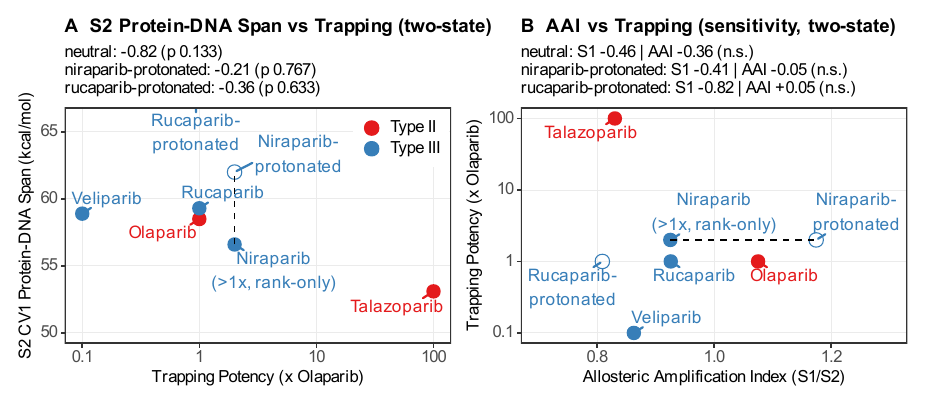
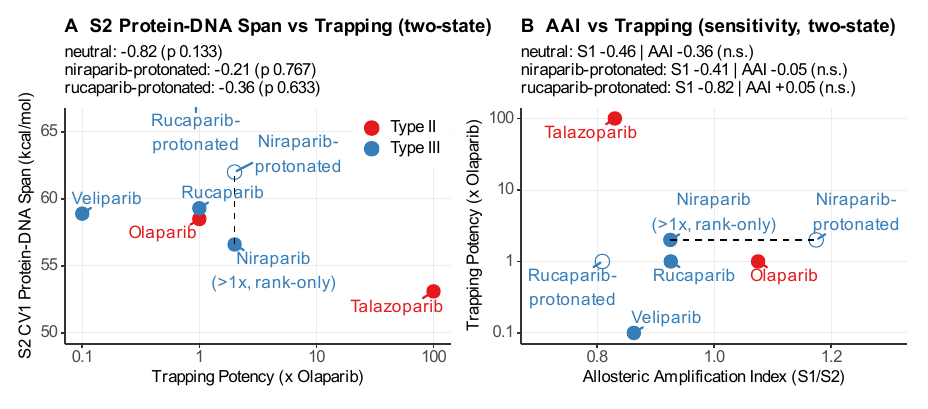
Figure style: open-frame panels for main-manuscript Figures 3-4
- code/21 (Fig_Trapping_vs_Allostery): both panels -> theme_open
- code/13 (Fig_2D_Mechanism_Map): -> theme_open
- D4 diagnostics already classic/minimal; grid/composite figures unchanged
- Main manuscript recompiled (57 pages); submission package synced

Changed region(s): [[0.0625, 0.8215, 0.5, 0.8509], [0.5625, 0.8215, 0.9688, 0.8509], [0.4688, 0.2641, 0.5, 0.2934]]

diff --git a/docs/standardisation_report.md b/docs/standardisation_report.md
@@ -109,6 +109,10 @@ Seeds (e.g. `set.seed(49)`) are retained by design.
   (S1/S2/S6/S7/S8/S9/S13/S14 and the S15-S17 base-R panels) intentionally keep
   their existing frames. The SI was recompiled and the submission package
   updated accordingly.
+  Main-manuscript round: open-frame applied to Figure 4 (Fig_Trapping_vs_Allostery,
+  both panels) and Figure 3 (Fig_2D_Mechanism_Map); the D4 diagnostics (Figures
+  5-7) were already in open/minimal styles; grid/composite main figures
+  (Figures 1, 2, 8-10) intentionally unchanged.
 
 ## 7. Known limits
 
